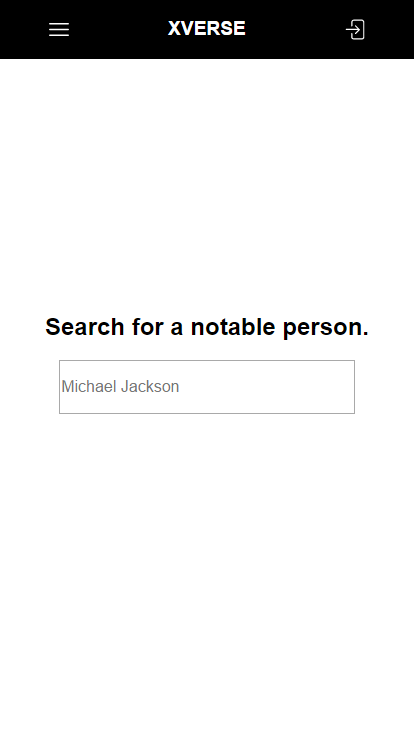
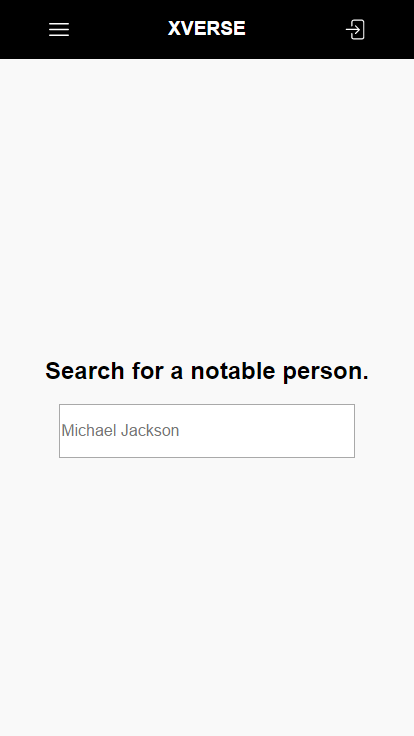
screen darker

Changed region(s): [[0.1159, 0.4062, 0.8986, 0.5938]]

diff --git a/src/components/Home.styles.ts b/src/components/Home.styles.ts
@@ -30,10 +30,10 @@ export const styles = StyleSheet.create({
         display: 'inline-block'
     },
     wrapper: {
-        backgroundColor: 'white'
+        backgroundColor: '#f9f9f9'
     },
     homepage: {
-        height: '80vh',
+        height: '92vh',
         display: 'flex',
         alignItems: 'center',
         justifyContent: 'center'
